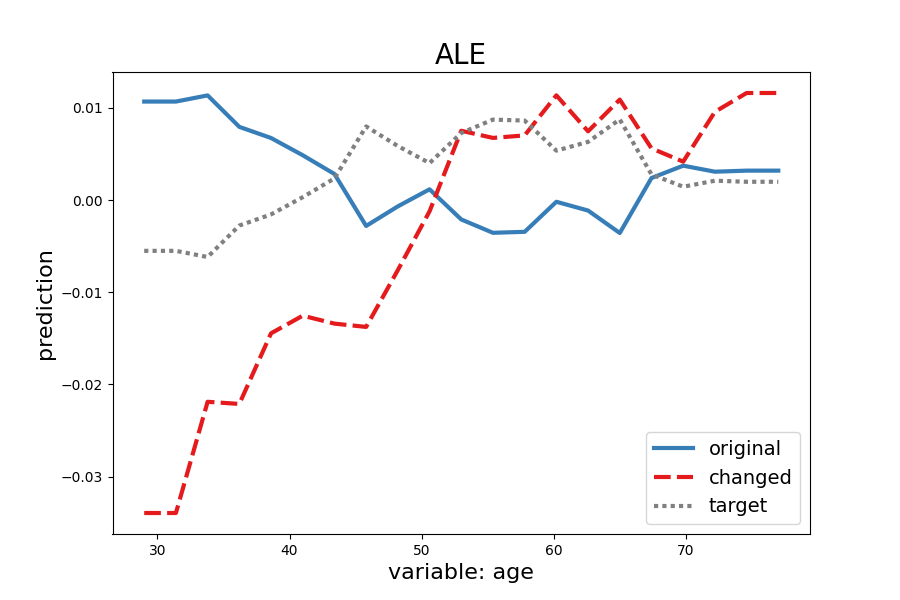
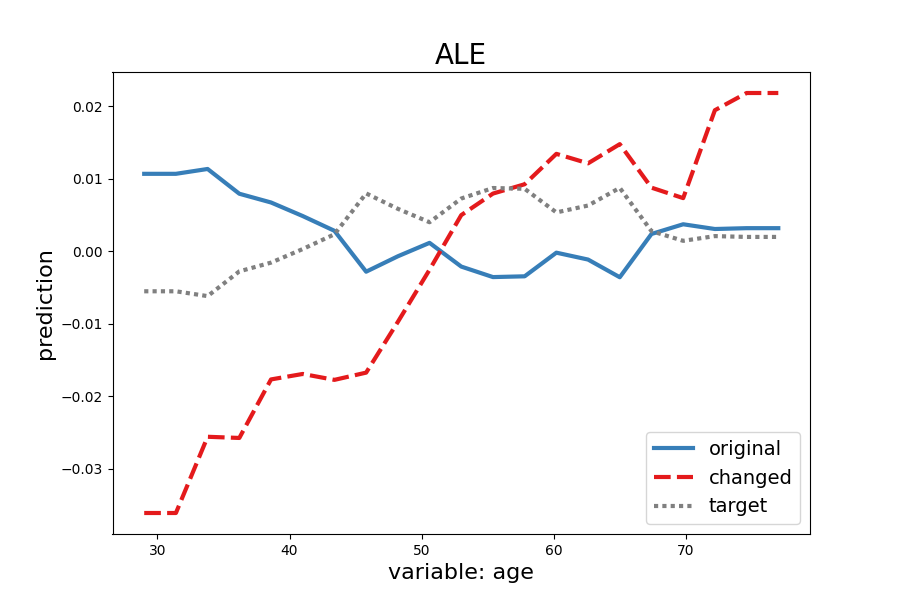
Add dalex ALE plotting

diff --git a/code/gradient.py b/code/gradient.py
@@ -141,6 +141,10 @@ class GradientAlgorithm(algorithm.Algorithm):
             X=self._X_changed, idv=self._idv, grid=result_explanation["grid"]
         )
 
+        self.result_explanations["ale_dalex"]["changed"] = self.explainer.ale_dalex(
+            X=self._X_changed, idv=self._idv, grid=result_explanation["grid"]
+        )
+
         # TODO check where this is used
         self.result_data[explanation_name] = (
             pd.concat((self.explainer.original_data, _data_changed))
@@ -317,7 +321,8 @@ class GradientAlgorithm(algorithm.Algorithm):
         
         df.loc[len(df.index)] = new_row
         print(df)
-        df.to_csv(all_results_csv, mode='a', header=True)
+        header = not os.path.isfile(all_results_csv) 
+        df.to_csv(all_results_csv, mode='a', header=header)
         print(output_str)
         if save_path:
             with open(save_path + "metrics.txt", "w") as text_file:

diff --git a/code/explainer.py b/code/explainer.py
@@ -3,6 +3,7 @@ import tensorflow as tf
 from copy import deepcopy
 import pandas as pd
 import warnings
+import dalex as dx
 
 
 class Explainer:
@@ -200,6 +201,14 @@ class Explainer:
         z = deepcopy(y)
         z = np.append(z, [z[-1]]) - c
 
+        return z
+
+    def ale_dalex(self, X, idv, grid):
+        explainer = dx.Explainer(self.model, X, predict_function=self.predict_function)
+        variable_name = str(idv)
+        ale = explainer.model_profile(type="ale", variables=[variable_name], variable_splits={variable_name: grid},
+            N=len(X), random_state=1, center=False)
+        z = ale.result._yhat_
         return z
 
 

diff --git a/run_gradient.py b/run_gradient.py
@@ -37,6 +37,8 @@ def arguments() -> Namespace:
     parser.add_argument(
         "--lr", default=0.1, type=float, help="learning rate for gradient algorithm"
     )
+    parser.add_argument("--n", default=320, type=int, help="number of observations")
+
     parser.add_argument(
         "--size", default=128, type=int, help="number of neurons in layers"
     )
@@ -110,7 +112,7 @@ if __name__ == "__main__":
         variable=args.variable,
         constant=CONSTANT,
         learning_rate=args.lr,
-        explanation_names=args.explanations,
+        explanation_names=["pd", "ale", "ale_dalex"],
     )
 
     if args.strategy == "target":

diff --git a/code/algorithm.py b/code/algorithm.py
@@ -12,7 +12,7 @@ class Algorithm:
         variable,
         constant=None,
         n_grid_points=21,
-        explanation_names=["pd", "ale"],
+        explanation_names=["pd", "ale", "ale_dalex"],
     ):
 
         self.explainer = explainer
